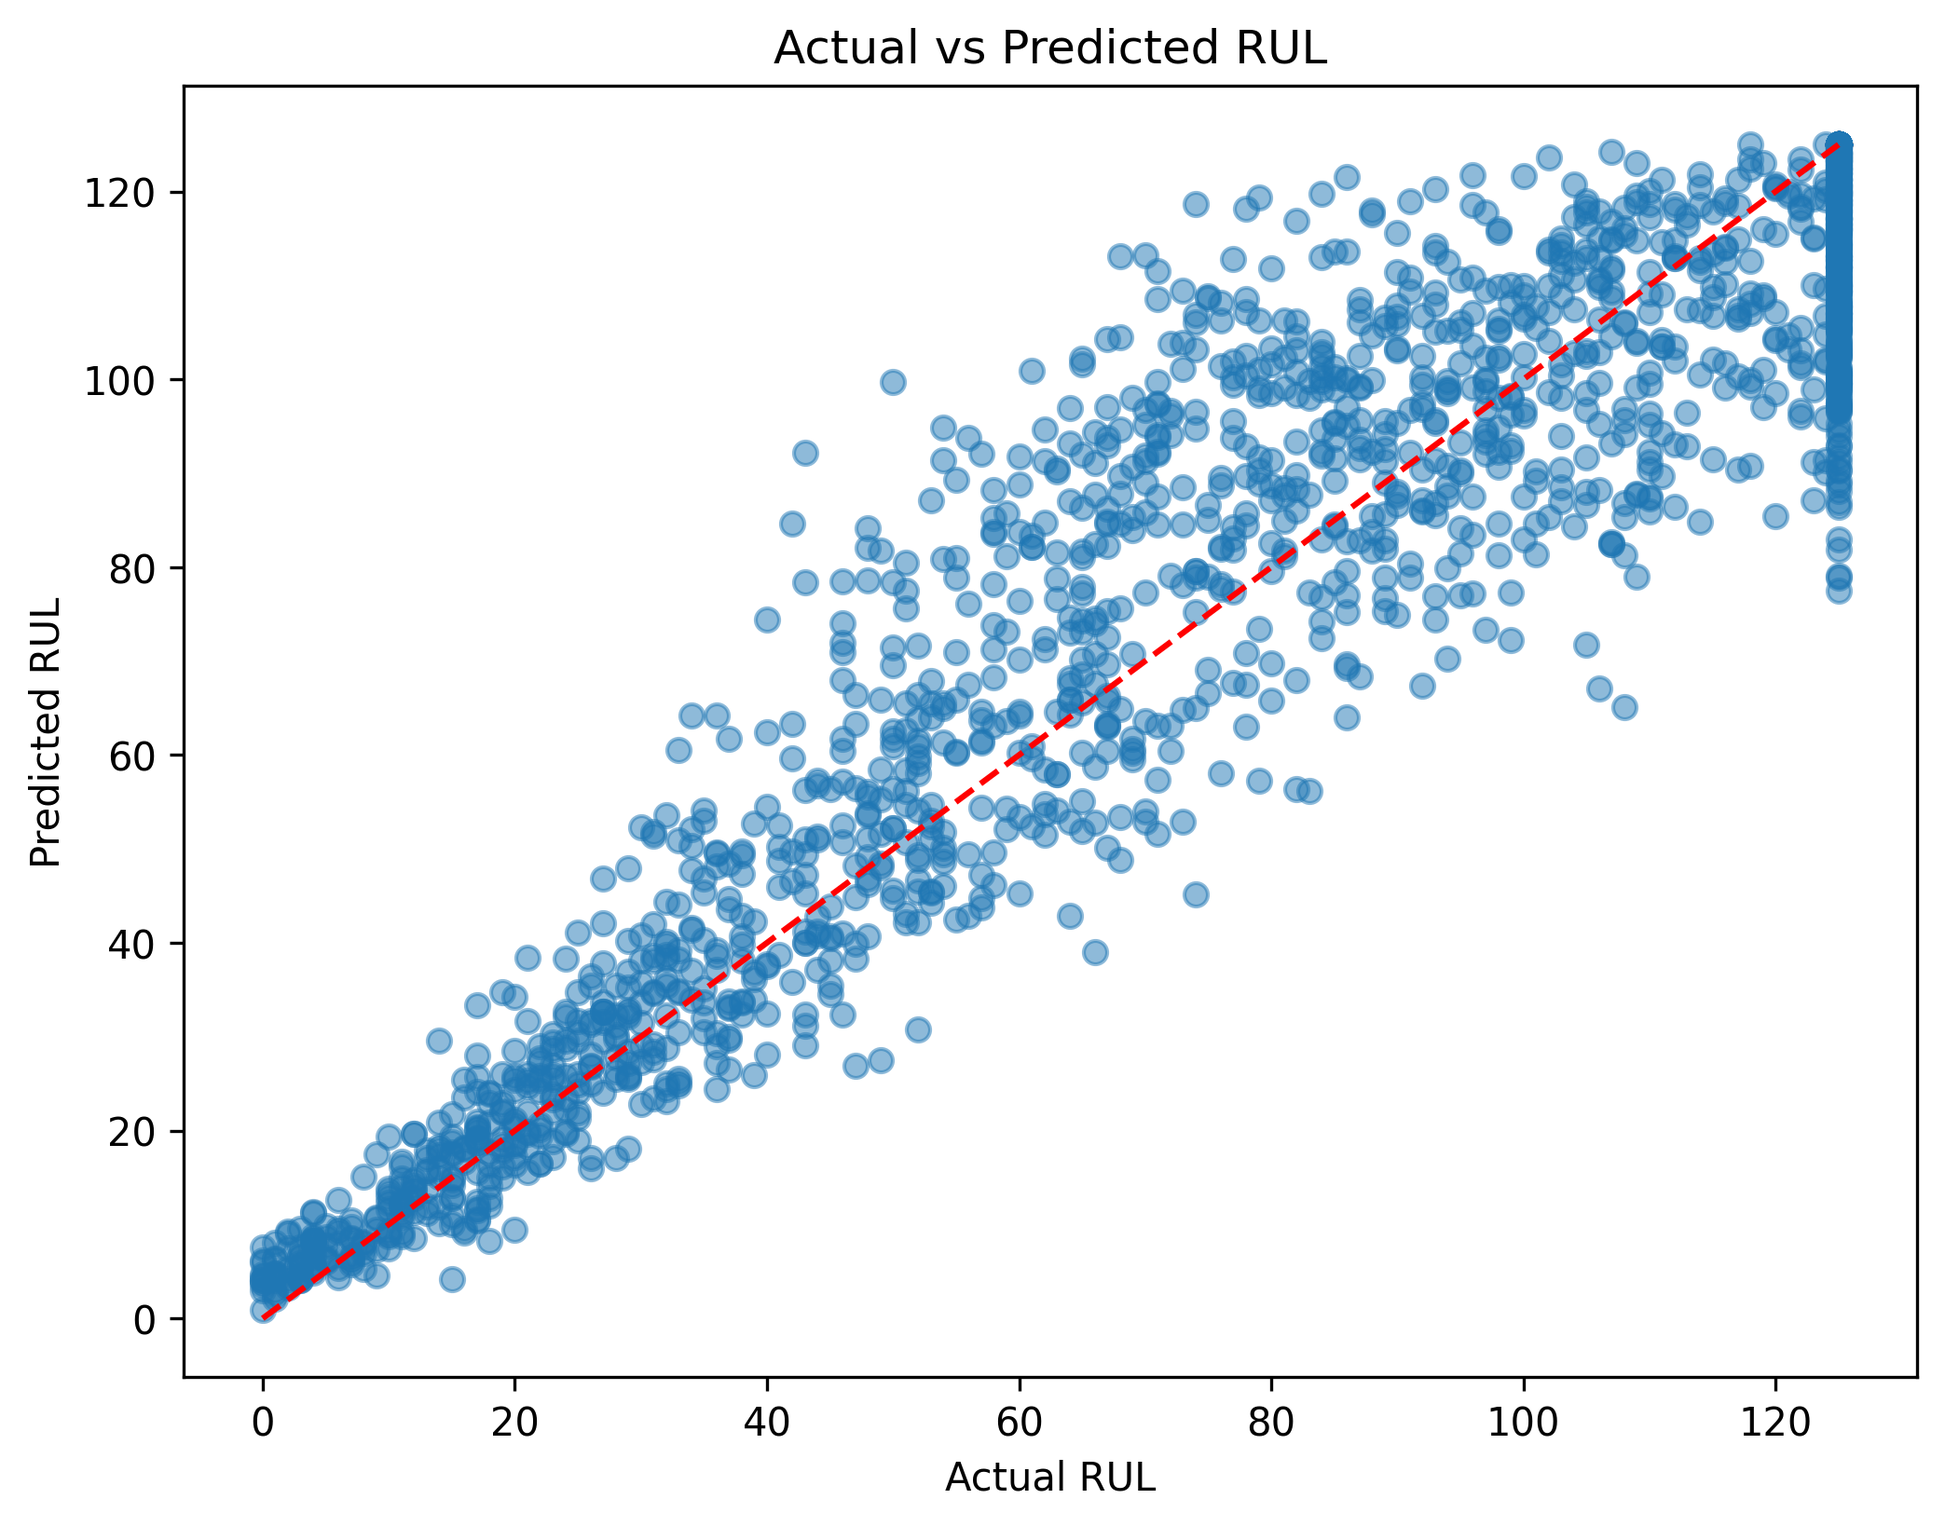
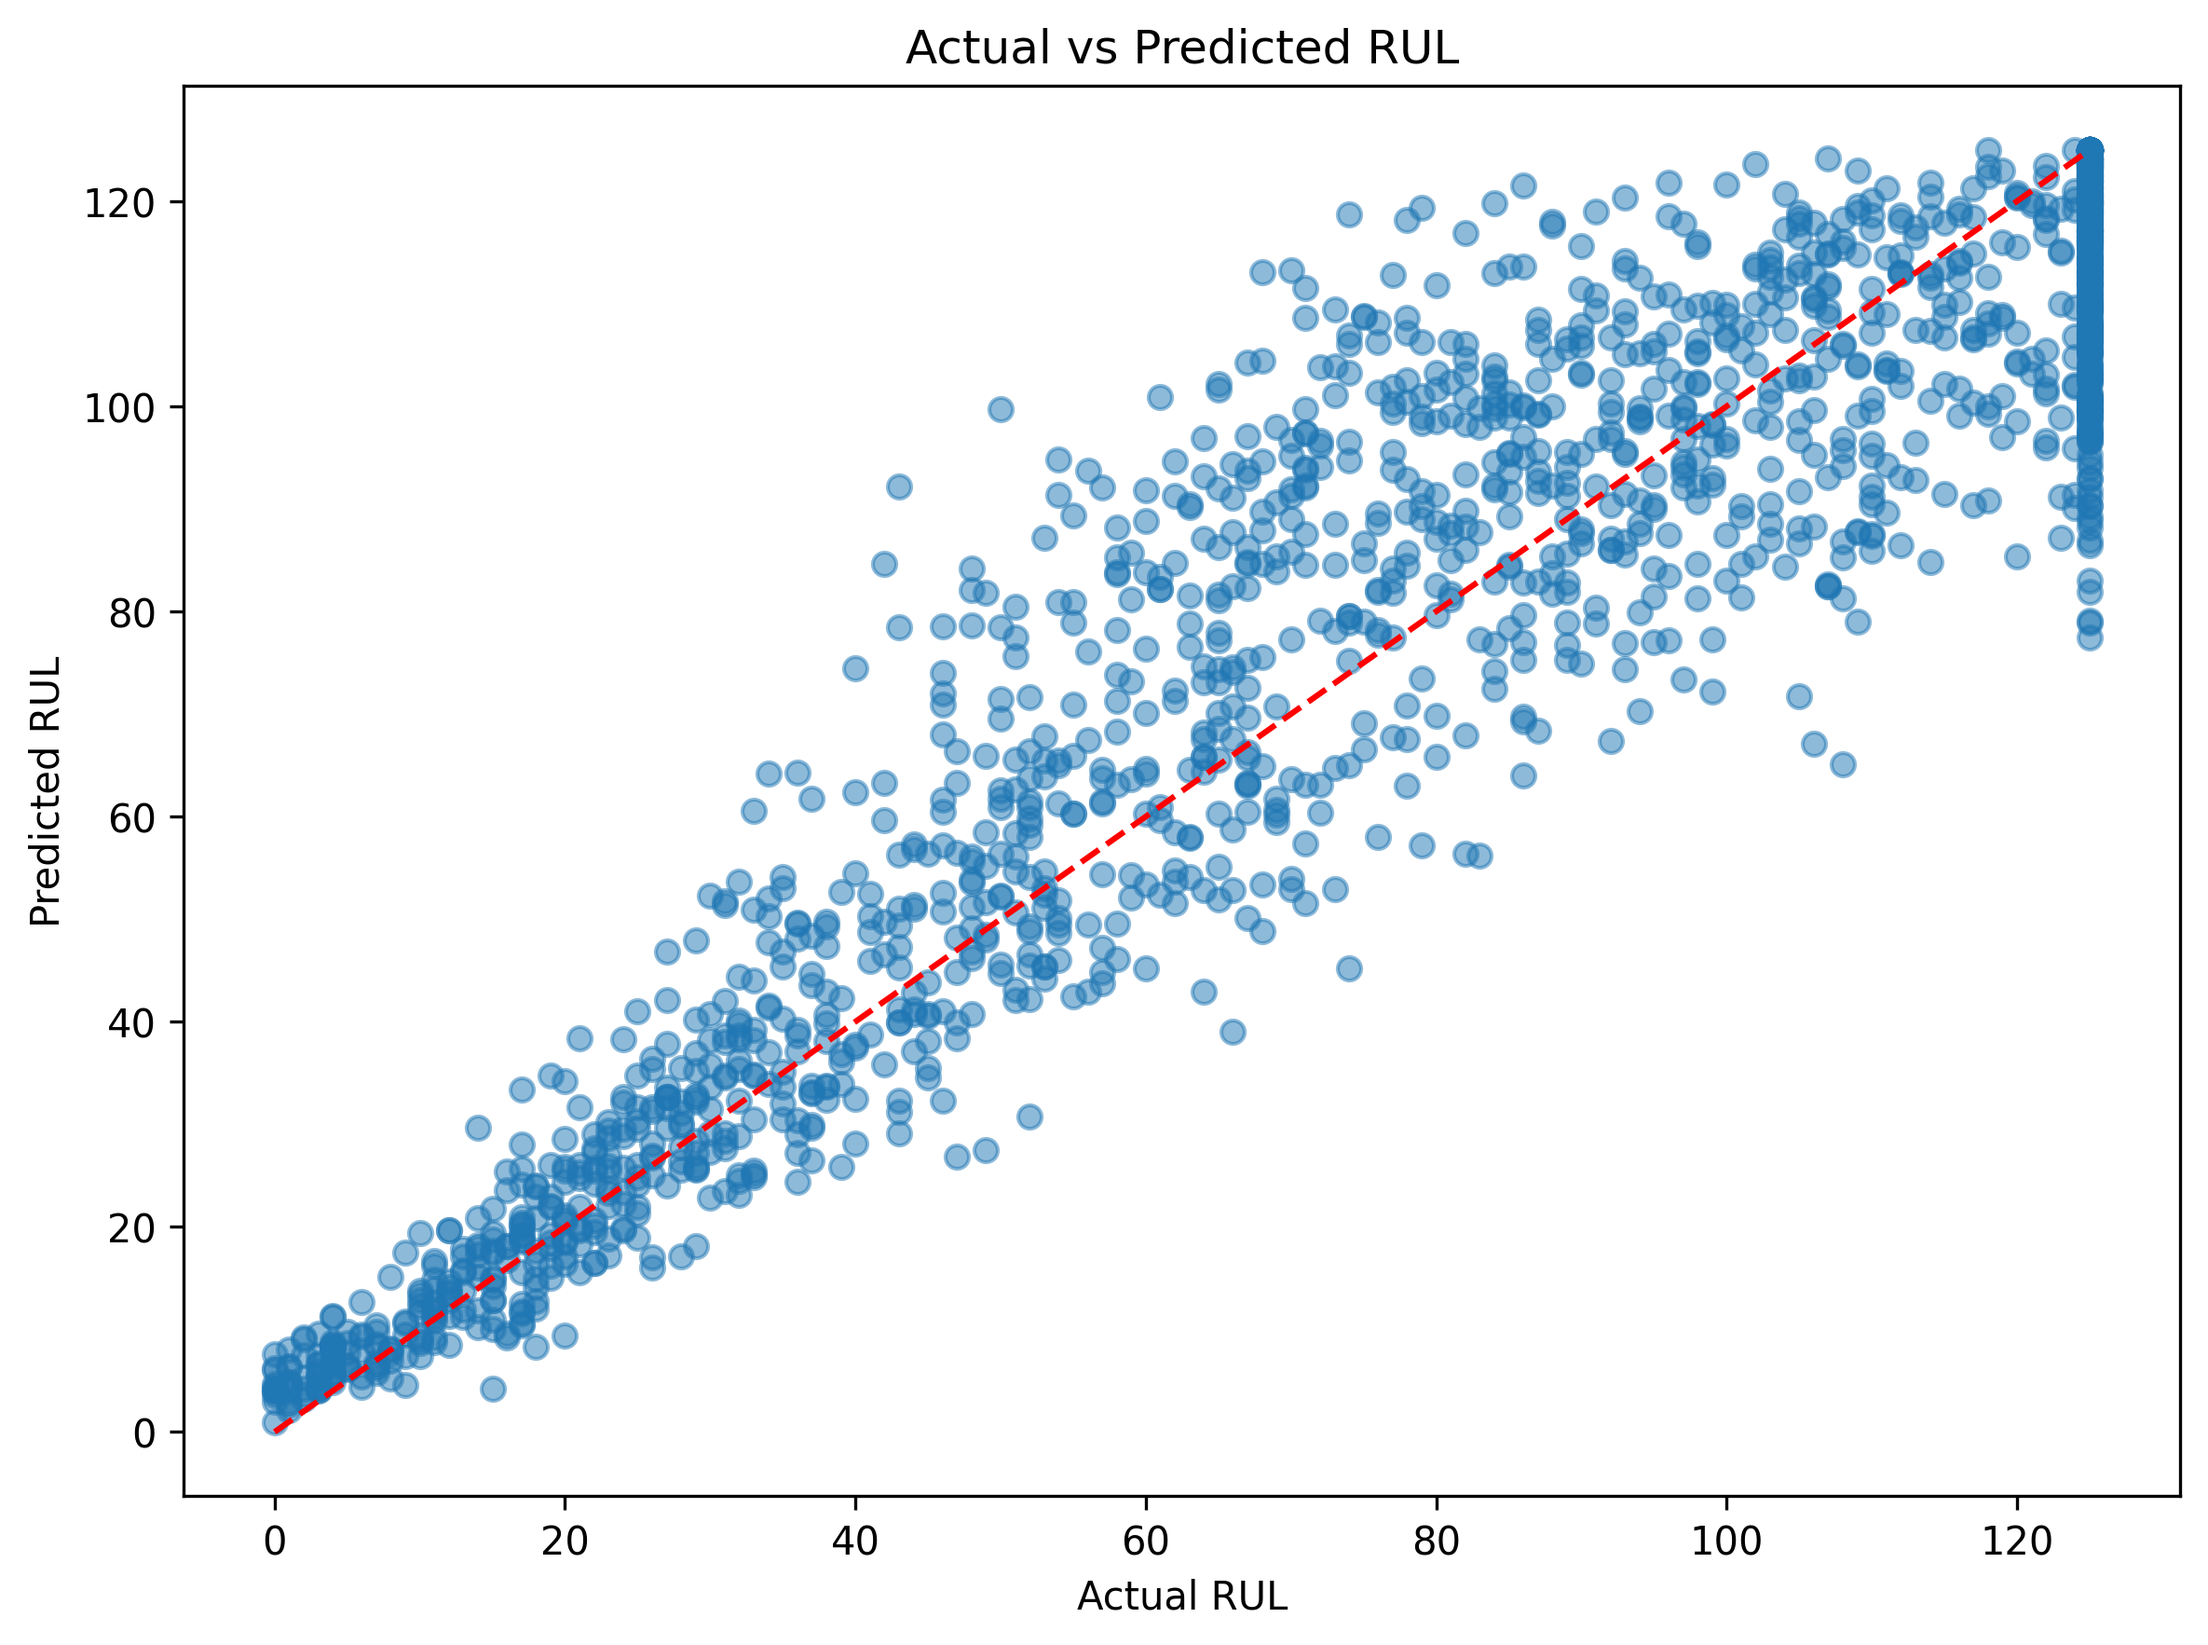
Refactor code structure for improved readability and maintainability

diff --git a/src/04_build_rul_model.py b/src/04_build_rul_model.py
@@ -44,11 +44,7 @@ def evaluate_model(model, X_test, y_test, model_name):
 def create_actual_vs_predicted_chart(y_test, preds):
     plt.figure(figsize=(8, 6))
 
-    plt.scatter(
-        y_test,
-        preds,
-        alpha=0.5
-    )
+    plt.scatter(y_test, preds, alpha=0.5)
 
     plt.plot(
         [y_test.min(), y_test.max()],
@@ -59,16 +55,40 @@ def create_actual_vs_predicted_chart(y_test, preds):
     plt.xlabel("Actual RUL")
     plt.ylabel("Predicted RUL")
     plt.title("Actual vs Predicted RUL")
+    plt.tight_layout()
 
-    chart_path = os.path.join(
-        CHART_DIR,
-        "actual_vs_predicted_rul.png"
-    )
+    chart_path = os.path.join(CHART_DIR, "actual_vs_predicted_rul.png")
 
     plt.savefig(chart_path, dpi=300, bbox_inches="tight")
     plt.close()
 
     print("Actual vs Predicted chart saved:", chart_path)
+
+
+def create_residual_analysis_chart(y_test, preds):
+    residuals = y_test - preds
+
+    plt.figure(figsize=(8, 6))
+
+    plt.scatter(preds, residuals, alpha=0.5)
+
+    plt.axhline(
+        y=0,
+        color="red",
+        linestyle="--"
+    )
+
+    plt.xlabel("Predicted RUL")
+    plt.ylabel("Residual Error")
+    plt.title("Residual Analysis")
+    plt.tight_layout()
+
+    chart_path = os.path.join(CHART_DIR, "residual_analysis.png")
+
+    plt.savefig(chart_path, dpi=300, bbox_inches="tight")
+    plt.close()
+
+    print("Residual Analysis chart saved:", chart_path)
 
 
 def main():
@@ -129,6 +149,7 @@ def main():
     )
 
     create_actual_vs_predicted_chart(y_test, xgb_preds)
+    create_residual_analysis_chart(y_test, xgb_preds)
 
     xgb_path = os.path.join(MODEL_DIR, "xgboost_rul_model.pkl")
     joblib.dump(xgb, xgb_path)

diff --git a/README.md b/README.md
@@ -102,7 +102,7 @@ Power BI Dashboard
 
 ### Architecture Diagram
 
-![Architecture Diagram](docs/images/architecture_diagram.png)
+![Architecture Diagram](outputs\charts\Architecture diagram.png)
 
 ---
 
@@ -157,7 +157,7 @@ EDA was performed to identify:
 
 ### Correlation Heatmap
 
-![Correlation Heatmap](docs/images/correlation_heatmap.png)
+![Correlation Heatmap](outputs\charts\correlation_heatmap.png)
 
 ---
 
@@ -220,13 +220,13 @@ Reason:
 
 ## Actual vs Predicted RUL
 
-![Actual vs Predicted RUL](docs/images/actual_vs_predicted_rul.png)
+![Actual vs Predicted RUL](outputs\charts\actual_vs_predicted_rul.png)
 
 ---
 
 ## Residual Analysis
 
-![Residual Analysis](docs/images/residual_analysis.png)
+![Residual Analysis](outputs\charts\residual_analysis.png)
 
 ---
 
@@ -244,13 +244,13 @@ The project incorporates Reliability Engineering techniques including:
 
 ## Reliability Curve
 
-![Reliability Curve](docs/images/reliability_curve.png)
+![Reliability Curve](outputs\charts\reliability_curve.png)
 
 ---
 
 ## Kaplan-Meier Survival Curve
 
-![Kaplan-Meier Survival Curve](docs/images/kaplan_meier_curve.png)
+![Kaplan-Meier Survival Curve](outputs\charts\kaplan_meier_curve.png)
 
 ---
 
